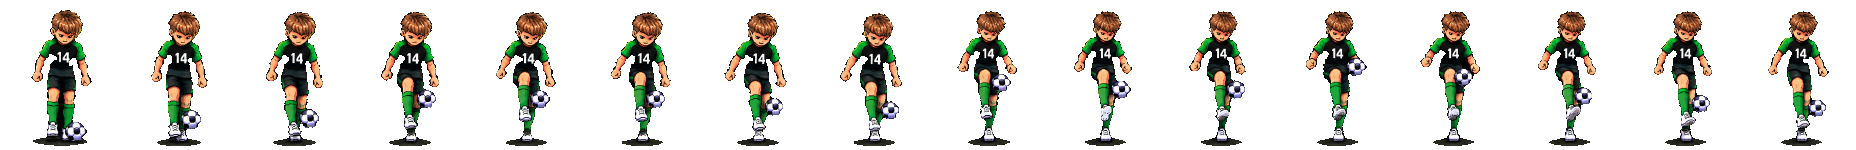
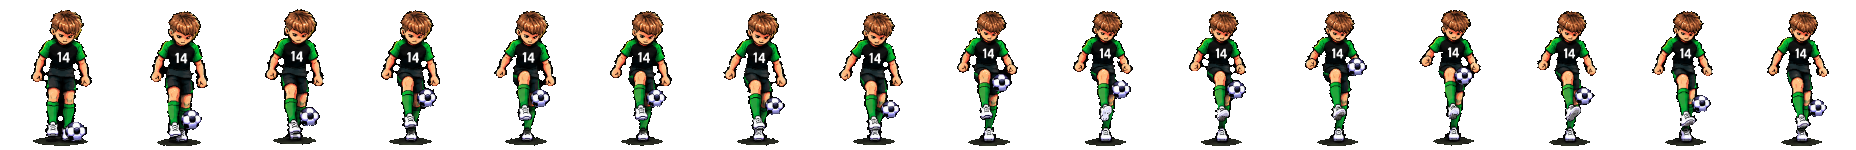
Kapki: re-cut juggling sprites, solid kits without holes
Claude-Session: https://claude.ai/code/session_01Y9XNosS9qXxorLv9Jh2D4n

diff --git a/cut_jug.py b/cut_jug.py
@@ -1,0 +1,40 @@
+# juggling sheets (8x2, black background): one 16-frame strip per player, every frame the same box, feet aligned
+from PIL import Image
+import numpy as np
+from scipy import ndimage as ndi
+def disk(r):
+    y, x = np.ogrid[-r:r + 1, -r:r + 1]; return x * x + y * y <= r * r
+def key_black(im):
+    # the sheets hold complete figures on pure black (0-1): everything that is not pure black is body,
+    # gaps in the body are closed and filled; only WIDE pure-black pockets (between legs, arm and torso) stay see-through
+    mx = im.max(-1)
+    body = ndi.binary_closing(mx > 2, structure=disk(2))
+    body = ndi.binary_fill_holes(body)
+    pocket = ndi.binary_opening(mx <= 2, structure=disk(5))
+    pocket = ndi.binary_dilation(pocket, structure=disk(2)) & (mx <= 4)
+    body &= ~pocket
+    # tiny leftover holes inside the kit get filled
+    holes = ndi.binary_fill_holes(body) & ~body
+    lab, n = ndi.label(holes); sz = ndi.sum(holes, lab, range(1, n + 1))
+    body |= np.isin(lab, [i + 1 for i, v in enumerate(sz) if v < 90])
+    lab, n = ndi.label(body); sz = ndi.sum(body, lab, range(1, n + 1))
+    return np.isin(lab, [i + 1 for i, v in enumerate(sz) if v > 200])
+TH, TW = 150, 116
+for num in ('14', '10', '7', '27'):
+    im = np.array(Image.open(f'/home/claude/kunio/src/jug/{num}.png').convert('RGB')).astype(int); H, W = im.shape[:2]
+    a = key_black(im); ch, cw = H // 2, W // 8
+    cells = [(im[r * ch:(r + 1) * ch, c * cw:(c + 1) * cw], a[r * ch:(r + 1) * ch, c * cw:(c + 1) * cw]) for r in range(2) for c in range(8)]
+    # feet = lowest opaque row in each cell; scale from frame 0's figure height
+    ys0 = np.nonzero(cells[0][1].any(1))[0]; k = 136 / (ys0.max() - ys0.min())
+    strip = Image.new('RGBA', (TW * 16, TH))
+    for i, (rgb, al) in enumerate(cells):
+        ys, xs = np.nonzero(al); feet = ys.max(); cx = (xs.min() + xs.max()) / 2
+        img = Image.fromarray(np.dstack([rgb, al * 255]).astype(np.uint8), 'RGBA')
+        w2, h2 = round(cw * k), round(ch * k); img = img.resize((w2, h2), Image.BOX)
+        q = np.array(img); q[..., 3] = (q[..., 3] > 120) * 255; img = Image.fromarray(q)
+        ox = round(TW / 2 - (cw / 2) * k); oy = round(TH - 4 - feet * k)
+        tile = Image.new('RGBA', (TW, TH)); tile.paste(img, (ox, oy), img); strip.paste(tile, (i * TW, 0))
+    strip.save(f'/home/claude/kunio/game/juggle_{num}.png')
+prev = Image.new('RGBA', (TW * 16, TH * 4), (40, 60, 90, 255))
+for j, num in enumerate(('14', '10', '7', '27')): s = Image.open(f'/home/claude/kunio/game/juggle_{num}.png'); prev.alpha_composite(s, (0, j * TH))
+prev.save('/tmp/fr/jugs.png')
